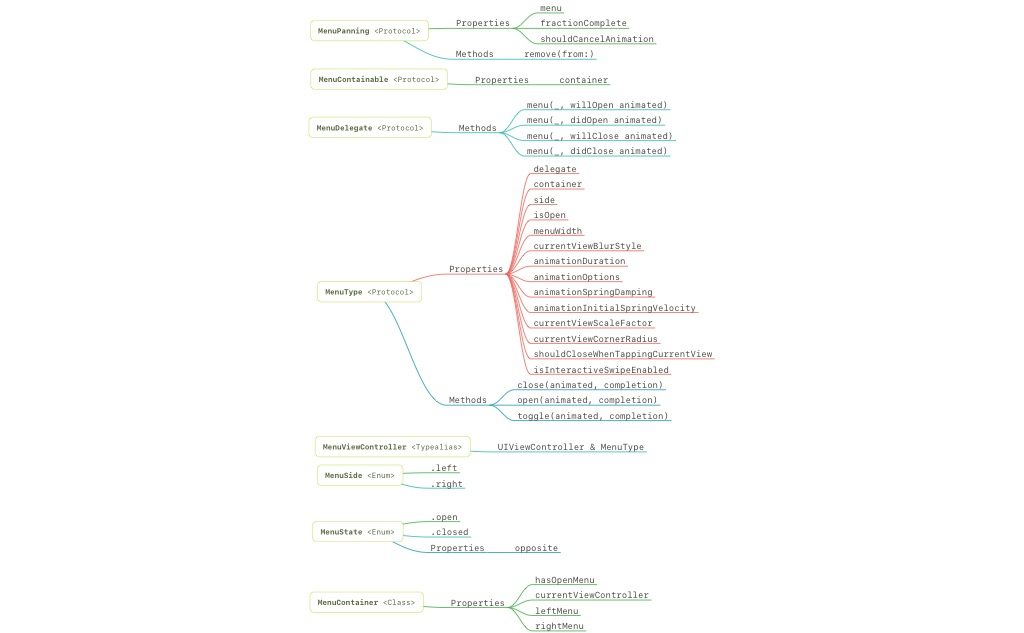
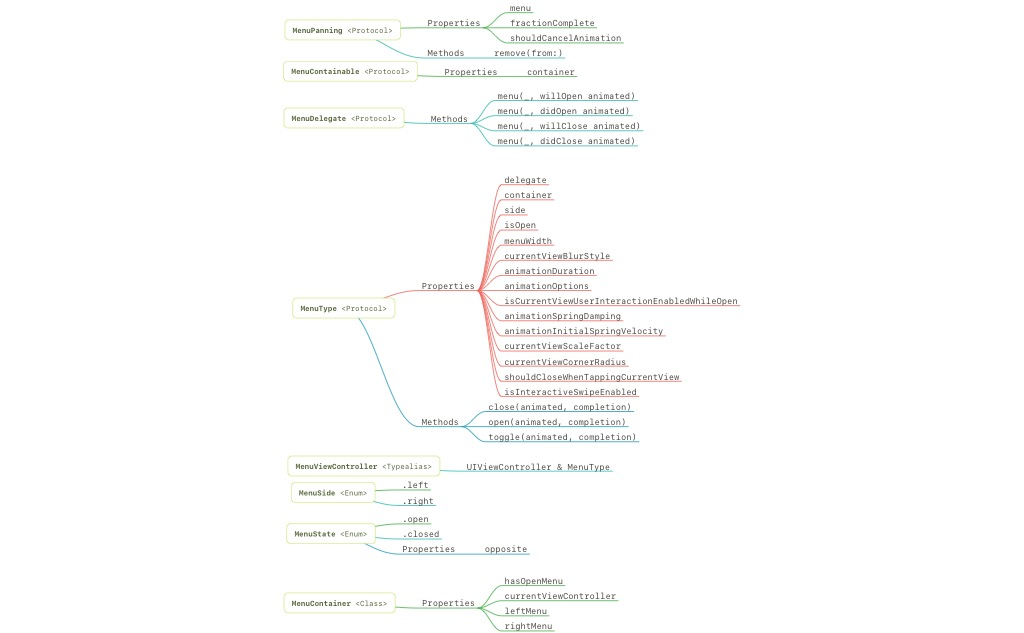
Disable orientation change while menu is open

Changed region(s): [[0.2812, 0.0, 0.7188, 1.0]]

diff --git a/Sources/Protocols/MenuType.swift b/Sources/Protocols/MenuType.swift
@@ -30,6 +30,8 @@ public protocol MenuType: class {
 
     var currentViewBlurAlpha: CGFloat { get }
 
+    var isCurrentViewUserInteractionEnabledWhileOpen: Bool { get }
+
 	var animationDuration: TimeInterval { get }
 
 	var animationDampingRatio: CGFloat { get }
@@ -68,16 +70,20 @@ public extension MenuType where Self: UIViewController {
         return 0.9
     }
 
+    public var isCurrentViewUserInteractionEnabledWhileOpen: Bool {
+        return false
+    }
+
 	public var animationDuration: TimeInterval {
-		return 0.4
+		return 0.5
 	}
 
 	public var animationDampingRatio: CGFloat {
-		return 0.8
+		return 0.75
 	}
 
 	public var currentViewScaleFactor: CGFloat {
-		return 0.8
+		return 0.75
 	}
 
 	public var currentViewCornerRadius: CGFloat {
@@ -174,15 +180,13 @@ internal extension MenuType where Self: UIViewController {
         stateAnimator.addCompletion { [unowned self] position in
             switch position {
             case .start:
-                self.delegate?.menu(self, didClose: animated)
-                self.container.blurView = nil
+                self.menuDidClose(animated: animated)
             case .end:
                 self.view.tag = state == .closed ? 404 : 0
                 if state == .closed {
-                    self.delegate?.menu(self, didClose: animated)
-                    self.container.blurView = nil
+                    self.menuDidClose(animated: animated)
                 } else {
-                    self.delegate?.menu(self, didOpen: animated)
+                    self.menuDidOpen(animated: animated)
                 }
             case .current:
                 break
@@ -195,6 +199,19 @@ internal extension MenuType where Self: UIViewController {
 
 		return stateAnimator
 	}
+
+    private func menuDidClose(animated: Bool) {
+        self.delegate?.menu(self, didClose: animated)
+        self.container.blurView = nil
+        self.container.currentViewController?.view.subviews.forEach { $0.isUserInteractionEnabled = true }
+    }
+
+    private func menuDidOpen(animated: Bool) {
+        self.delegate?.menu(self, didOpen: animated)
+        if !isCurrentViewUserInteractionEnabledWhileOpen {
+            self.container.currentViewController?.view.subviews.forEach { $0.isUserInteractionEnabled = false }
+        }
+    }
 
 	internal func animateTransitionIfNeeded(to state: MenuState, animated: Bool = true, _ completion: (() -> Void)? = nil) {
 		if animator != nil { return }

diff --git a/Example/MenusExample/Menus/MainMenu.swift b/Example/MenusExample/Menus/MainMenu.swift
@@ -56,6 +56,7 @@ class MainMenu: UITableViewController, MenuType {
             close()
 
         case 2:
+            container.currentViewController = storyboard?.instantiateViewController(withIdentifier: "HomeNavigationController")
             container.leftMenu?.close {
                 self.container.rightMenu?.open()
             }
@@ -69,7 +70,7 @@ class MainMenu: UITableViewController, MenuType {
             close {
                 UIApplication.shared.open(url, options: [:], completionHandler: nil)
             }
-            
+
         default:
             break
         }

diff --git a/Example/MenusExample/Menus/ContainerViewController.swift b/Example/MenusExample/Menus/ContainerViewController.swift
@@ -16,9 +16,8 @@ class ContainerViewController: MenuContainer {
 
         view.backgroundColor = .black
 
-        currentViewController = storyboard!.instantiateViewController(withIdentifier: "HomeNavigationController") as! UINavigationController
-        
-        leftMenu = storyboard!.instantiateViewController(withIdentifier: "MainMenu") as! MainMenu
+        currentViewController = storyboard?.instantiateViewController(withIdentifier: "HomeNavigationController")
+        leftMenu = storyboard?.instantiateViewController(withIdentifier: "MainMenu") as? MainMenu
     }
 
 }

diff --git a/Example/MenusExample/ViewControllers/HomeViewController.swift b/Example/MenusExample/ViewControllers/HomeViewController.swift
@@ -18,10 +18,10 @@ class ViewController: UIViewController, MenuContainable {
 
         container?.leftMenu?.delegate = self
 
-        container?.rightMenu = storyboard!.instantiateViewController(withIdentifier: "ClientsMenu") as! ClientsMenu
+        container?.rightMenu = storyboard?.instantiateViewController(withIdentifier: "ClientsMenu") as? ClientsMenu
         container?.rightMenu?.delegate = self
     }
-    
+
     @IBAction func didTapLeftBarButtonItem(_ sender: UIBarButtonItem) {
         container?.leftMenu?.toggle()
     }

diff --git a/Example/MenusExample/ViewControllers/AboutViewController.swift b/Example/MenusExample/ViewControllers/AboutViewController.swift
@@ -12,7 +12,8 @@ import Menus
 class AboutViewController: UIViewController, MenuContainable {
 
     @IBAction func didTapReturnHomeButton(_ sender: UIButton) {
-        container?.currentViewController = storyboard?.instantiateViewController(withIdentifier: "HomeNavigationController")
+        let homeNavController = storyboard?.instantiateViewController(withIdentifier: "HomeNavigationController")
+        container?.currentViewController = homeNavController
     }
 
 }

diff --git a/Example/MenusExample/Menus/ClientsMenu.swift b/Example/MenusExample/Menus/ClientsMenu.swift
@@ -11,7 +11,7 @@ import Menus
 
 class ClientsMenu: UITableViewController, MenuType {
 
-    var delegate: MenuDelegate?
+    weak var delegate: MenuDelegate?
 
     var animator: UIViewPropertyAnimator?
 
@@ -41,6 +41,10 @@ class ClientsMenu: UITableViewController, MenuType {
 
     var isInteractiveSwipeEnabled: Bool {
         return false
+    }
+
+    @IBAction func didTap(_ sender: Any) {
+        close()
     }
 
 }

diff --git a/Sources/Classes/MenuContainer/MenuContainer.swift b/Sources/Classes/MenuContainer/MenuContainer.swift
@@ -82,6 +82,10 @@ open class MenuContainer: UIViewController {
         }
     }
 
+    open override var shouldAutorotate: Bool {
+        return !hasOpenMenu
+    }
+
 }
 
 // MARK: - Private Extensions

diff --git a/Example/MenusExample/ViewControllers/OpenSourceViewController.swift b/Example/MenusExample/ViewControllers/OpenSourceViewController.swift
@@ -11,7 +11,6 @@ import Menus
 
 class OpenSourceViewController: UIViewController, MenuContainable {
 
-
     override func viewDidLoad() {
         super.viewDidLoad()
 

diff --git a/Example/MenusExample/AppDelegate.swift b/Example/MenusExample/AppDelegate.swift
@@ -18,4 +18,3 @@ class AppDelegate: UIResponder, UIApplicationDelegate {
     }
 
 }
-
